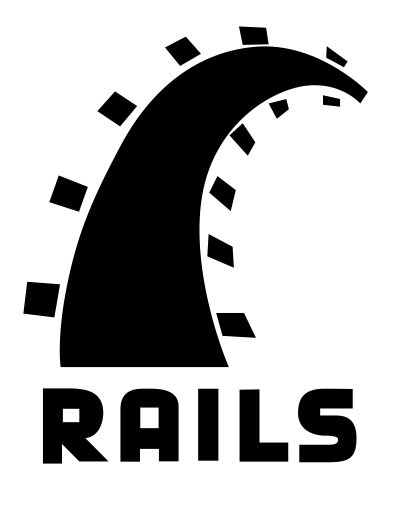
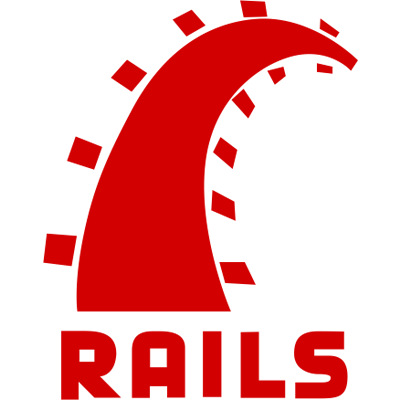
Started re-styling. Replaced pictures. Downloaded Slick

diff --git a/app/assets/stylesheets/application.scss b/app/assets/stylesheets/application.scss
@@ -1,48 +1,9 @@
 @import "bootstrap";
 @import "font-awesome";
+@import 'slick-theme';
 
-/*
-* MIXINS START
-*/
-
-@mixin centering {
-  display: flex;
-  flex-wrap: wrap;
-  justify-content: center;
-  align-items: center;
-  @content;
-}
-
-@mixin iconlinks {
-	font-size: 45px;
-	margin-right: 50px;
-	@content;
-}
-
-/*
-* MIXINS END
-*/
-
-html,
-body {
-	height: 100%;
-}
-
-
-h1 {
-	@include centering {
-		width: 700px;
-		background-color: rgba(219, 0, 0, 1);
-		font-weight: bold;
-		color: white;
-	}
-}
-
-h2 {
-	font-size: 40px;
-	font-weight: bold;
-	max-height: 48px;
-}
+@import 'mixins';
+@import 'global';
 
 #theNav {
 	background-color: rgba(135, 135, 135, 0.80);
@@ -60,38 +21,36 @@ h2 {
 		width: 100%;
 		padding-top: 10%;
 		padding-bottom: 10%;
-		background: image-url('headerbackground.GIF');
+		background: image-url('markus-spiske-507983-unsplash.jpg');
 	  background-position: center;
+	  border-bottom: 4px solid $kj-red;
 	}
 }
 
 #languageBox {
 	padding-top: 20px;
-	padding-bottom: 30px;
-	background: image-url('markus-spiske-507983-unsplash.jpg');
-	background-position: center;
-	border-top: 4px solid;
-	border-bottom: 4px solid;
-	border-color: rgba(219, 0, 0, 1);
-}
-
-.forLangBox {
-	@include centering
+	padding-bottom: 20px;
+	overflow: auto;
 }
 
 .boxes {
 	float: left;
-	width: 350px;
-	padding-top: 50px;
-	padding-bottom: 50px;
-	margin: 10px 5px 0px 5px;
-	background-color: rgba(135, 135, 135, 0.62);
+	position: relative;
+	width: 180px;
+	height: 85px;
 	text-align: center;
-	color: white;
+}
+
+.boxes p {
+	margin: 0px;
+	position: absolute;
+	top: 50%;
+	left: 50%;
+	transform: translate(-50%, -50%);
 }
 
 .ruby {
-	color: rgba(219, 0, 0, 1);
+	color: $kj-red;
 }
 
 .html {
@@ -100,12 +59,6 @@ h2 {
 
 .css {
 	color: rgba(67, 97, 234, 1);
-}
-
-#missionStatement {
-	width: 100%;
-	background-color: LightGrey;
-	padding: 20px 100px 20px 100px;
 }
 
 #aboutMe {
@@ -130,8 +83,9 @@ h2 {
 }
 
 .mastfoot {
-	position: relative;
-	bottom: 0px;
+	position: absolute;
+	bottom: 0;
+	left: 0;
 	width: 100%;
 	padding-top: 10px;
 	padding-bottom: 10px;

diff --git a/app/assets/stylesheets/global.scss b/app/assets/stylesheets/global.scss
@@ -1,0 +1,25 @@
+*,
+*:before,
+*:after {
+	margin: 0px;
+}
+
+html,
+body {
+	height: 100%;
+}
+
+h1 {
+	@include centering {
+		width: 700px;
+		background-color: $kj-red;
+		font-weight: bold;
+		color: white;
+	}
+}
+
+h2 {
+	font-size: 40px;
+	font-weight: bold;
+	max-height: 48px;
+}

diff --git a/app/assets/stylesheets/mixins.scss b/app/assets/stylesheets/mixins.scss
@@ -1,0 +1,15 @@
+$kj-red: rgba(219, 0, 0, 1);
+
+@mixin centering {
+  display: flex;
+  flex-wrap: wrap;
+  justify-content: center;
+  align-items: center;
+  @content;
+}
+
+@mixin iconlinks {
+	font-size: 45px;
+	margin-right: 50px;
+	@content;
+}

diff --git a/app/assets/javascripts/application.js b/app/assets/javascripts/application.js
@@ -14,6 +14,7 @@
 //= require popper
 //= require rails-ujs
 //= require jquery-ui
+//= require jquery.slick
 //= require turbolinks
 //= require_tree .
 //= require bootstrap-sprockets
